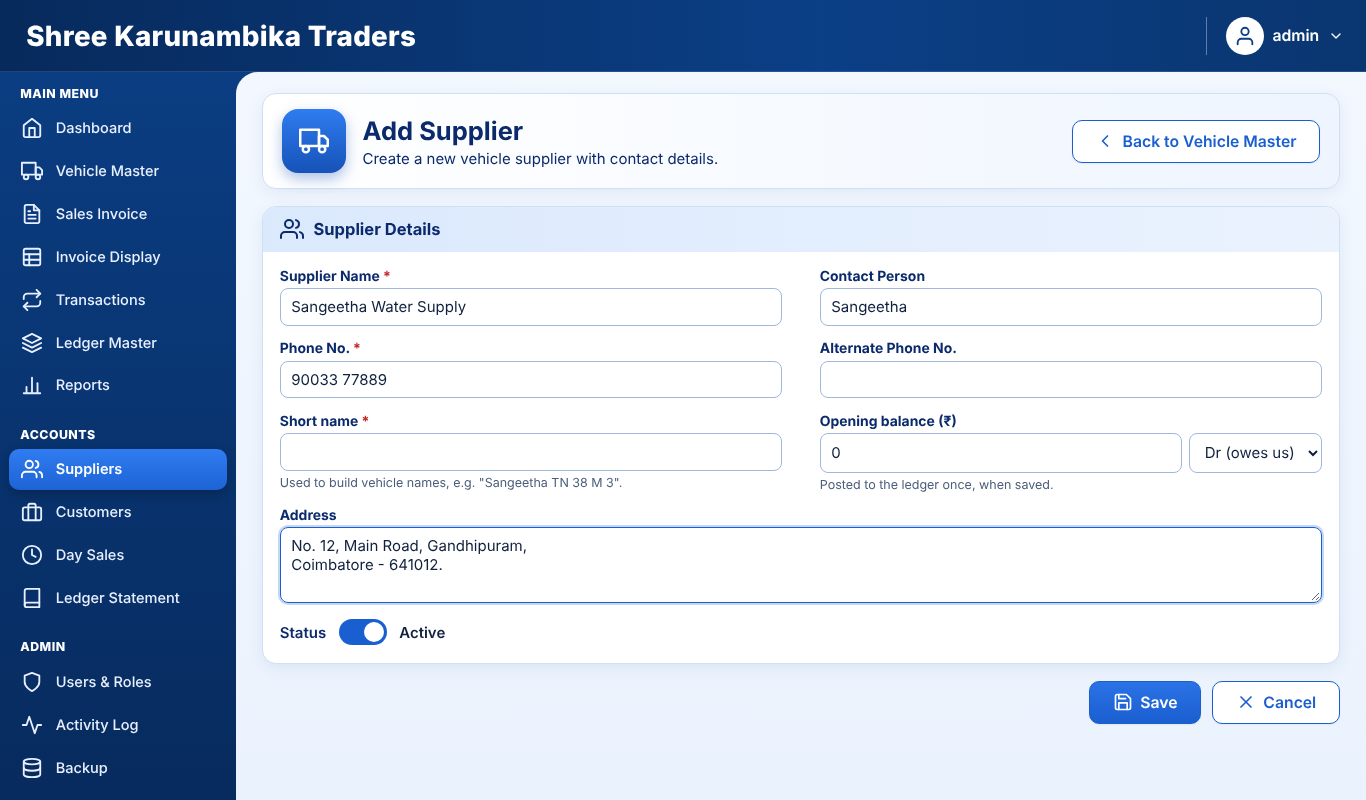
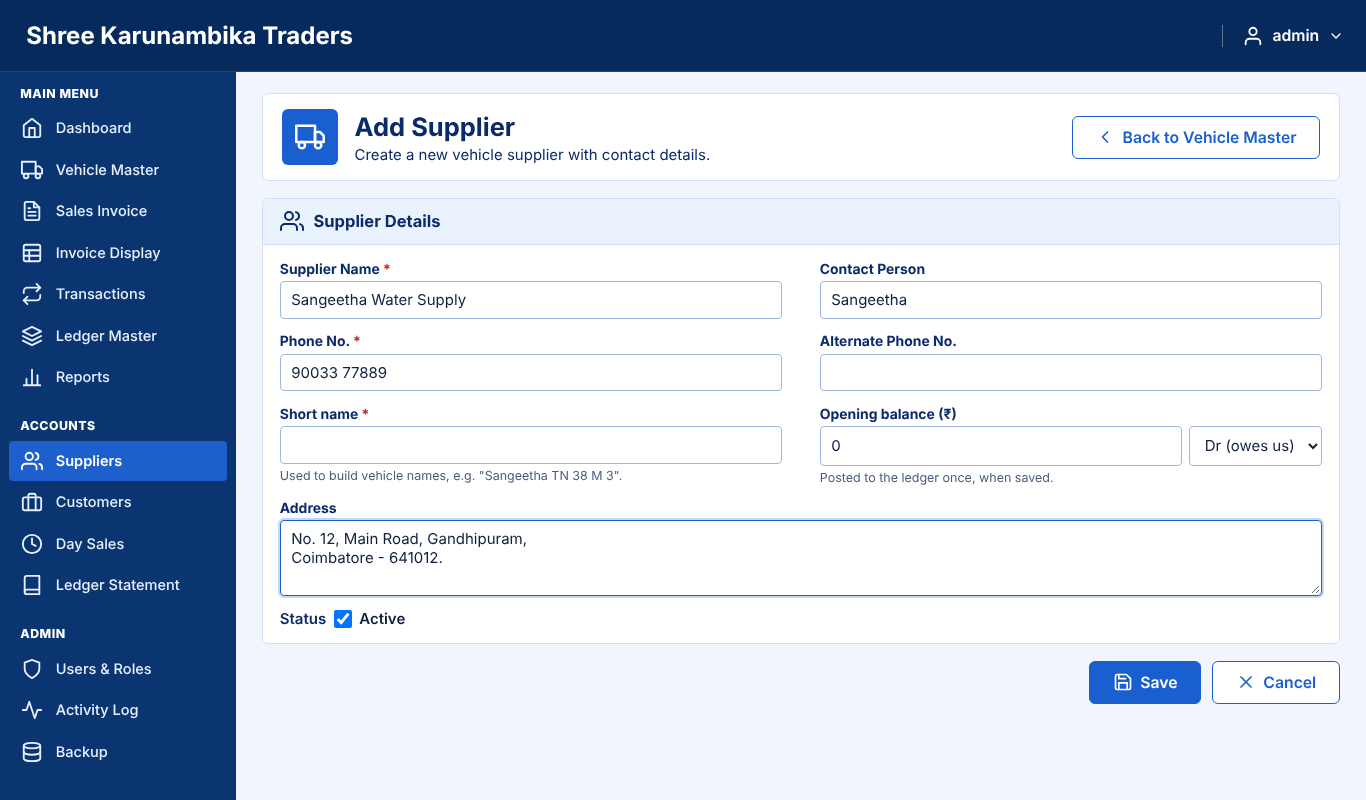
Plain design pass: remove decorative styling and filler copy
- No gradients anywhere (frame, buttons, tabs, tiles, login); pink/purple tile removed
- No pill shapes: badges, radio choices and the status toggle are plain
- No shadows or animations; corners 4 to 6 px; one blue for actions
- Concrete page subtitles instead of generic ones
- No em/en dashes, check-mark glyphs or emoji in the UI or docs
- Screenshots in docs/images retaken

Claude-Session: https://claude.ai/code/session_01GC6BTDpwSqLWP6n9AXb7Z6

diff --git a/src/wwwroot/app.css b/src/wwwroot/app.css
@@ -16,8 +16,8 @@
     --danger: #c62828;
     --ok: #1e7a3e;
     --ok-bg: #dff5e6;
-    --radius: 14px;
-    --shadow: 0 4px 16px rgba(18, 61, 128, 0.08);
+    --radius: 6px;
+    --shadow: none;
 }
 
 html, body {
@@ -39,14 +39,14 @@ code { font-size: 0.85em; word-break: break-all; }
 /* ---------- Page header (icon tile + title + description + actions) ---------- */
 .page-head {
     display: flex; align-items: center; gap: 1.1rem; flex-wrap: wrap;
-    background: linear-gradient(90deg, #ffffff 0%, #eef5ff 100%);
+    background: var(--paper);
     border: 1px solid var(--line); border-radius: var(--radius); padding: 1rem 1.25rem; margin-bottom: 1.1rem;
     box-shadow: var(--shadow);
 }
 .page-head-icon {
-    width: 64px; height: 64px; border-radius: 16px; flex-shrink: 0;
+    width: 56px; height: 56px; border-radius: 6px; flex-shrink: 0;
     display: flex; align-items: center; justify-content: center;
-    color: #ffffff; background: linear-gradient(180deg, #2f7cf0, #1652b8); box-shadow: 0 6px 14px rgba(22, 82, 184, 0.35);
+    color: #ffffff; background: var(--blue);
 }
 .page-head-text { flex: 1 1 260px; }
 .page-head-text p { margin: 0.2rem 0 0; color: var(--navy); font-size: 1rem; }
@@ -58,21 +58,20 @@ code { font-size: 0.85em; word-break: break-all; }
 /* ---------- Buttons ---------- */
 .btn {
     display: inline-flex; align-items: center; justify-content: center; gap: 0.5rem;
-    padding: 0.55rem 1.1rem; border: 1.5px solid var(--blue); border-radius: 10px;
+    padding: 0.55rem 1.1rem; border: 1px solid var(--blue); border-radius: 6px;
     background: var(--paper); color: var(--blue); font: inherit; font-weight: 600; cursor: pointer; text-decoration: none;
-    box-shadow: 0 1px 2px rgba(0, 0, 0, 0.05);
 }
 .btn:hover { background: var(--blue-50); }
-.btn-primary { background: linear-gradient(180deg, #2a72e6, var(--blue)); border-color: var(--blue); color: #ffffff; }
+.btn-primary { background: var(--blue); border-color: var(--blue); color: #ffffff; }
 .btn-primary:hover { background: var(--blue-600); }
 .btn-danger { border-color: var(--danger); color: var(--danger); }
 .btn-danger:hover { background: #fdecec; }
 .btn:disabled { opacity: 0.5; cursor: not-allowed; }
-.btn-small { padding: 0.25rem 0.65rem; font-size: 0.85rem; border-radius: 8px; }
+.btn-small { padding: 0.25rem 0.65rem; font-size: 0.85rem; }
 .btn-lg { padding: 0.7rem 1.5rem; font-size: 1.05rem; }
 .btn + .btn { margin-left: 0; }
 .link-button { background: none; border: none; padding: 0; font: inherit; text-decoration: underline; cursor: pointer; color: var(--blue); }
-.icon-btn { background: none; border: none; padding: 0.3rem; border-radius: 8px; cursor: pointer; color: var(--blue); display: inline-flex; }
+.icon-btn { background: none; border: none; padding: 0.3rem; border-radius: 4px; cursor: pointer; color: var(--blue); display: inline-flex; }
 .icon-btn:hover { background: var(--blue-50); }
 .icon-btn.danger { color: var(--danger); }
 .icon-btn.danger:hover { background: #fdecec; }
@@ -87,7 +86,7 @@ code { font-size: 0.85em; word-break: break-all; }
 .section { background: var(--paper); border: 1px solid var(--line); border-radius: var(--radius); margin-bottom: 1.1rem; box-shadow: var(--shadow); overflow: hidden; }
 .section-title {
     display: flex; align-items: center; gap: 0.65rem; margin: 0; padding: 0.7rem 1.1rem;
-    background: linear-gradient(90deg, #dbe9fd 0%, #eaf2fe 100%); color: var(--navy); font-size: 1.1rem; font-weight: 700;
+    background: var(--blue-50); border-bottom: 1px solid var(--line); color: var(--navy); font-size: 1.1rem; font-weight: 700;
 }
 .section-title .grow { flex: 1; }
 .section-body { padding: 1rem 1.1rem; }
@@ -98,7 +97,7 @@ code { font-size: 0.85em; word-break: break-all; }
 .field small { color: var(--muted); }
 .req { color: var(--danger); }
 input, select, textarea {
-    font: inherit; padding: 0.55rem 0.7rem; border: 1px solid #9fb8dc; border-radius: 8px;
+    font: inherit; padding: 0.55rem 0.7rem; border: 1px solid #9fb8dc; border-radius: 4px;
     background: var(--paper); color: var(--ink);
 }
 input:focus, select:focus, textarea:focus { border-color: var(--blue); outline: 2px solid rgba(26, 95, 208, 0.25); outline-offset: 0; }
@@ -109,14 +108,12 @@ input[readonly], select:disabled { background: #eef3fa; color: var(--ink); }
 .input-icon { position: relative; display: flex; align-items: center; }
 .input-icon .icon { position: absolute; left: 0.7rem; color: var(--muted); pointer-events: none; }
 .input-icon input, .input-icon select { padding-left: 2.4rem; width: 100%; }
-.radio-pills { display: flex; gap: 0.75rem; flex-wrap: wrap; }
-.radio-pill { display: inline-flex; align-items: center; gap: 0.5rem; padding: 0.45rem 1rem; border-radius: 999px; background: #f0f3f8; cursor: pointer; font-weight: 600; }
-.radio-pill.on { background: var(--ok-bg); color: var(--ok); }
-.switch { display: inline-flex; align-items: center; gap: 0.6rem; cursor: pointer; font-weight: 600; }
-.switch input { appearance: none; width: 48px; height: 26px; border-radius: 999px; background: #b9c6d8; position: relative; border: none; padding: 0; cursor: pointer; }
-.switch input::after { content: ""; position: absolute; top: 3px; left: 3px; width: 20px; height: 20px; border-radius: 50%; background: #ffffff; transition: left 0.15s; }
-.switch input:checked { background: var(--blue); }
-.switch input:checked::after { left: 25px; }
+.radio-pills { display: flex; gap: 1.5rem; flex-wrap: wrap; padding-top: 0.4rem; }
+.radio-pill { display: inline-flex; align-items: center; gap: 0.4rem; cursor: pointer; font-weight: 600; }
+.radio-pill input { width: 18px; height: 18px; margin: 0; }
+
+.switch { display: inline-flex; align-items: center; gap: 0.5rem; cursor: pointer; font-weight: 600; }
+.switch input { width: 18px; height: 18px; margin: 0; }
 .invalid { outline: 1px solid var(--danger); }
 .validation-message { color: var(--danger); font-size: 0.88rem; }
 
@@ -127,7 +124,7 @@ input[readonly], select:disabled { background: #eef3fa; color: var(--ink); }
 .search-box { flex: 1 1 320px; max-width: 520px; }
 
 /* ---------- Tables ---------- */
-.table-wrap { background: var(--paper); border: 1px solid var(--line); border-radius: var(--radius); overflow: auto; box-shadow: var(--shadow); margin-bottom: 1.1rem; }
+.table-wrap { background: var(--paper); border: 1px solid var(--line); border-radius: var(--radius); overflow: auto; margin-bottom: 1.1rem; }
 table.data { border-collapse: collapse; width: 100%; }
 table.data th, table.data td { padding: 0.62rem 0.8rem; text-align: left; vertical-align: middle; border-bottom: 1px solid #e1ebf8; }
 table.data thead th { background: var(--navy-700); color: #ffffff; font-weight: 600; font-size: 0.93rem; white-space: nowrap; }
@@ -141,11 +138,11 @@ table.plain th { background: var(--blue-50) !important; color: var(--navy) !impo
 .card > table.data, .section-body > table.data { border: 1px solid #e1ebf8; }
 
 /* ---------- Alerts, badges ---------- */
-.alert { padding: 0.65rem 0.95rem; margin-bottom: 1rem; border: 1px solid; border-radius: 10px; }
+.alert { padding: 0.65rem 0.95rem; margin-bottom: 1rem; border: 1px solid; border-radius: 4px; }
 .alert-error { border-color: var(--danger); color: #a51d1d; background: #fdecec; }
 .alert-ok { border-color: var(--ok); color: var(--ok); background: #eaf7ee; }
 .alert-warn { border-color: #b98900; color: #5c4400; background: #fff6d6; }
-.badge { display: inline-block; padding: 0.15rem 0.7rem; border-radius: 999px; font-size: 0.85rem; font-weight: 700; background: var(--ok-bg); color: var(--ok); }
+.badge { display: inline-block; padding: 0.1rem 0.45rem; border-radius: 3px; font-size: 0.82rem; font-weight: 700; background: var(--ok-bg); color: var(--ok); }
 .badge-off { background: #edf0f4; color: var(--muted); }
 .badge-bad { background: #fdecec; color: var(--danger); }
 .badge-info { background: var(--blue-50); color: var(--blue-600); }
@@ -155,38 +152,34 @@ table.plain th { background: var(--blue-50) !important; color: var(--navy) !impo
 /* ---------- Figure tiles (dashboard, invoice display) ---------- */
 .cards { display: grid; grid-template-columns: repeat(auto-fill, minmax(220px, 1fr)); gap: 0.9rem; margin-bottom: 1.1rem; }
 .stat {
-    display: flex; align-items: center; gap: 0.9rem; padding: 1rem 1.1rem; border-radius: var(--radius);
-    border: 1px solid var(--line); background: linear-gradient(180deg, #ffffff, #e8f1fe); box-shadow: var(--shadow);
+    display: flex; align-items: center; gap: 0.9rem; padding: 0.9rem 1rem; border-radius: var(--radius);
+    border: 1px solid var(--line); background: var(--paper);
 }
-.stat-icon { width: 54px; height: 54px; border-radius: 12px; display: flex; align-items: center; justify-content: center; background: #ffffff; color: var(--blue); flex-shrink: 0; box-shadow: 0 2px 6px rgba(0, 0, 0, 0.06); }
+.stat-icon { width: 46px; height: 46px; border-radius: 6px; display: flex; align-items: center; justify-content: center; background: var(--blue-50); color: var(--blue); flex-shrink: 0; }
 .stat-label { font-size: 0.92rem; font-weight: 700; color: var(--navy); }
 .stat-value { font-size: 1.45rem; font-weight: 800; margin-top: 0.15rem; color: var(--navy); font-variant-numeric: tabular-nums; }
-.stat.green { background: linear-gradient(180deg, #ffffff, #e2f5e9); border-color: #bfe5cb; }
-.stat.green .stat-icon { color: var(--ok); }
-.stat.pink { background: linear-gradient(180deg, #ffffff, #fbe7f3); border-color: #f1c6df; }
-.stat.pink .stat-icon { color: #b0175b; }
 .stat.small .stat-value { font-size: 1.15rem; }
 .stat.small .stat-icon { width: 42px; height: 42px; }
 
 /* ---------- Tabs (Transactions) ---------- */
 .tabs { display: flex; gap: 0.25rem; margin-bottom: -1px; position: relative; z-index: 1; }
 .tab {
-    display: inline-flex; align-items: center; gap: 0.6rem; padding: 0.75rem 1.4rem; border-radius: 12px 12px 0 0;
+    display: inline-flex; align-items: center; gap: 0.6rem; padding: 0.7rem 1.3rem; border-radius: 6px 6px 0 0;
     border: 1px solid var(--line); border-bottom: none; background: #e6effc; color: var(--navy);
     font-weight: 700; font-size: 1.05rem; text-decoration: none; cursor: pointer;
 }
 .tab small { font-weight: 500; }
-.tab.active { background: linear-gradient(180deg, #2a72e6, var(--blue)); color: #ffffff; border-color: var(--blue); }
+.tab.active { background: var(--blue); color: #ffffff; border-color: var(--blue); }
 
 /* ---------- Highlighted amount (Sales Invoice) ---------- */
-.amount-box { border-radius: 12px; background: var(--blue-50); border: 1px solid var(--line); padding: 0.6rem 0.8rem; }
+.amount-box { border-radius: 6px; background: var(--blue-50); border: 1px solid var(--line); padding: 0.6rem 0.8rem; }
 .amount-box .label { display: flex; align-items: center; gap: 0.4rem; font-weight: 700; color: var(--navy); margin-bottom: 0.35rem; }
-.amount-box .value { background: #ffe14d; color: #10213f; font-size: 1.9rem; font-weight: 800; text-align: center; border-radius: 8px; padding: 0.2rem 0.5rem; font-variant-numeric: tabular-nums; }
-.number-box { background: var(--blue-50); border: 1px solid var(--line); border-radius: 12px; padding: 0.5rem 0.8rem; min-width: 180px; }
+.amount-box .value { background: #ffe14d; color: #10213f; font-size: 1.9rem; font-weight: 800; text-align: center; border-radius: 4px; padding: 0.2rem 0.5rem; font-variant-numeric: tabular-nums; }
+.number-box { background: var(--blue-50); border: 1px solid var(--line); border-radius: 6px; padding: 0.5rem 0.8rem; min-width: 180px; }
 .number-box label { font-weight: 700; color: var(--navy); font-size: 0.92rem; display: block; margin-bottom: 0.25rem; }
-.number-box .value { background: #ffffff; border: 1px solid #9fb8dc; border-radius: 8px; padding: 0.35rem 0.7rem; font-weight: 800; font-size: 1.15rem; color: var(--navy); }
+.number-box .value { background: #ffffff; border: 1px solid #9fb8dc; border-radius: 4px; padding: 0.35rem 0.7rem; font-weight: 800; font-size: 1.15rem; color: var(--navy); }
 
-.blazor-error-boundary { background: var(--danger); padding: 1rem; color: white; border-radius: 10px; }
+.blazor-error-boundary { background: var(--danger); padding: 1rem; color: white; border-radius: 4px; }
 .blazor-error-boundary::after { content: "An error has occurred."; }
 
 /* Smaller screens: forms stack. */
@@ -197,11 +190,11 @@ table.plain th { background: var(--blue-50) !important; color: var(--navy) !impo
 .quick { display: grid; grid-template-columns: repeat(auto-fill, minmax(140px, 1fr)); gap: 0.9rem; }
 .quick-tile {
     display: flex; flex-direction: column; align-items: center; justify-content: center; gap: 0.6rem; min-height: 120px;
-    border: 1.5px solid var(--line); border-radius: 14px; background: linear-gradient(180deg, #ffffff, #e8f1fe);
+    border: 1px solid var(--line); border-radius: 6px; background: var(--paper);
     color: var(--navy); font-weight: 800; font-size: 1.05rem; text-decoration: none; text-align: center; padding: 0.6rem;
 }
 .quick-tile .icon { color: var(--blue); }
-.quick-tile:hover { border-color: var(--blue); box-shadow: 0 4px 14px rgba(26, 95, 208, 0.2); }
+.quick-tile:hover { border-color: var(--blue); background: var(--blue-50); }
 @media (max-width: 1100px) { .dash-grid { grid-template-columns: 1fr; } }
 
 /* ---------- Sales Invoice ---------- */
@@ -212,7 +205,7 @@ table.plain th { background: var(--blue-50) !important; color: var(--navy) !impo
 .button-grid { display: grid; grid-template-columns: repeat(4, 1fr); gap: 0.6rem; }
 .disabled-link { opacity: 0.5; pointer-events: none; }
 .total-card .label { font-weight: 800; color: var(--navy); font-size: 1.15rem; text-align: center; }
-.total-card .total-value { font-size: 2.2rem; font-weight: 800; text-align: center; color: var(--navy); background: #ffffff; border: 1px solid #9fb8dc; border-radius: 10px; margin: 0.5rem 0 0.75rem; padding: 0.3rem; font-variant-numeric: tabular-nums; }
+.total-card .total-value { font-size: 2.2rem; font-weight: 800; text-align: center; color: var(--navy); background: #ffffff; border: 1px solid #9fb8dc; border-radius: 4px; margin: 0.5rem 0 0.75rem; padding: 0.3rem; font-variant-numeric: tabular-nums; }
 @media (max-width: 1200px) { .inv-row-2 { grid-template-columns: repeat(3, 1fr); } .inv-bottom { grid-template-columns: 1fr; } .button-grid { grid-template-columns: repeat(3, 1fr); } }
 
 /* ---------- Invoice Display ---------- */
@@ -224,10 +217,10 @@ table.plain th { background: var(--blue-50) !important; color: var(--navy) !impo
 .filter-bar .field input { width: 100%; box-sizing: border-box; }
 .summary-grid { display: grid; grid-template-columns: 1.4fr 1fr; gap: 1.1rem; align-items: start; }
 .balance-list { display: flex; flex-direction: column; gap: 0.5rem; }
-.balance-row { display: flex; align-items: center; gap: 0.6rem; background: var(--paper); border: 1px solid var(--line); border-radius: 10px; padding: 0.65rem 0.9rem; color: var(--navy); font-weight: 700; box-shadow: var(--shadow); }
+.balance-row { display: flex; align-items: center; gap: 0.6rem; background: var(--paper); border: 1px solid var(--line); border-radius: 6px; padding: 0.65rem 0.9rem; color: var(--navy); font-weight: 700; }
 .balance-row span { flex: 1; }
 .balance-row strong { font-size: 1.15rem; font-variant-numeric: tabular-nums; }
-.balance-row.closing { background: linear-gradient(90deg, #0b3a75, #1652b8); color: #ffffff; border-color: #0b3a75; }
+.balance-row.closing { background: var(--navy-700); color: #ffffff; border-color: var(--navy-700); }
 @media (max-width: 1100px) { .summary-grid { grid-template-columns: 1fr; } }
 
 /* ---------- Transactions (vouchers) ---------- */
@@ -239,8 +232,8 @@ table.plain th { background: var(--blue-50) !important; color: var(--navy) !impo
 .party-pick { display: flex; gap: 1rem; }
 .party-pick .field { margin: 0; flex: 1; }
 .party-pick .field label { font-size: 0.8rem; color: var(--muted); }
-.balance-strip { display: flex; gap: 1.5rem; flex-wrap: wrap; margin: 1rem 0; padding: 0.6rem 0.9rem; border-radius: 10px; background: var(--blue-50); color: var(--navy); font-weight: 600; }
-.cancel-box { display: flex; gap: 0.75rem; align-items: end; flex-wrap: wrap; margin-top: 1rem; padding: 0.8rem; border: 1px solid #f1c0c0; background: #fff6f6; border-radius: 10px; }
+.balance-strip { display: flex; gap: 1.5rem; flex-wrap: wrap; margin: 1rem 0; padding: 0.6rem 0.9rem; border-radius: 4px; background: var(--blue-50); color: var(--navy); font-weight: 600; }
+.cancel-box { display: flex; gap: 0.75rem; align-items: end; flex-wrap: wrap; margin-top: 1rem; padding: 0.8rem; border: 1px solid #f1c0c0; background: #fff6f6; border-radius: 4px; }
 .cancel-box label { font-weight: 700; color: var(--danger); width: 100%; }
 .cancel-box input { flex: 1 1 260px; }
 .voucher-buttons { display: grid; grid-template-columns: repeat(8, minmax(0, 1fr)); gap: 0.6rem; margin-top: 1.4rem; padding-top: 1rem; border-top: 1px solid var(--line); }

diff --git a/src/Components/Layout/MainLayout.razor.css b/src/Components/Layout/MainLayout.razor.css
@@ -4,16 +4,16 @@
     grid-template-rows: 72px 1fr;
     grid-template-areas: "top top" "side main";
     min-height: 100vh;
-    background: linear-gradient(180deg, #0b3f86 0%, #072a5c 100%);
+    background: #0a3570;
 }
 
 .topbar {
     grid-area: top; display: flex; align-items: center; justify-content: space-between;
     padding: 0 1.5rem 0 1.75rem;
-    background: linear-gradient(90deg, #072a5c 0%, #0b3f86 60%, #0a3670 100%);
+    background: #072a5c;
     border-bottom: 1px solid rgba(255, 255, 255, 0.12);
 }
-.brand { color: #ffffff; font-size: 1.85rem; font-weight: 800; text-decoration: none; letter-spacing: 0.01em; }
+.brand { color: #ffffff; font-size: 1.6rem; font-weight: 700; text-decoration: none; }
 
 .user-menu { position: relative; border-left: 1px solid rgba(255, 255, 255, 0.35); padding-left: 1.25rem; }
 .user-menu summary {
@@ -21,14 +21,14 @@
     color: #ffffff; font-weight: 600; font-size: 1.05rem;
 }
 .user-menu summary::-webkit-details-marker { display: none; }
-.avatar { display: inline-flex; width: 38px; height: 38px; border-radius: 50%; background: #ffffff; color: #0b3f86; align-items: center; justify-content: center; }
+.avatar { display: inline-flex; color: #ffffff; align-items: center; }
 .user-menu-panel {
     position: absolute; right: 0; top: calc(100% + 10px); min-width: 210px; z-index: 50;
-    background: #ffffff; border-radius: 10px; box-shadow: 0 10px 30px rgba(0, 0, 0, 0.25); padding: 0.5rem;
+    background: #ffffff; border: 1px solid var(--line); border-radius: 4px; padding: 0.5rem;
 }
 .user-menu-role { padding: 0.4rem 0.6rem; color: var(--muted); font-size: 0.85rem; border-bottom: 1px solid var(--line); margin-bottom: 0.25rem; }
 .user-menu-panel a, .user-menu-panel button {
-    display: flex; align-items: center; gap: 0.5rem; width: 100%; padding: 0.5rem 0.6rem; border-radius: 6px;
+    display: flex; align-items: center; gap: 0.5rem; width: 100%; padding: 0.5rem 0.6rem; border-radius: 4px;
     color: var(--ink); text-decoration: none; background: none; border: none; font: inherit; cursor: pointer; text-align: left;
 }
 .user-menu-panel a:hover, .user-menu-panel button:hover { background: var(--blue-50); }
@@ -37,8 +37,7 @@
 
 .content {
     grid-area: main; padding: 1.4rem 1.75rem 2.5rem;
-    background: linear-gradient(180deg, #f3f8ff 0%, #eaf2fd 100%);
-    border-top-left-radius: 22px; min-width: 0;
+    background: #f2f6fc; min-width: 0;
 }
 
 #blazor-error-ui {

diff --git a/src/Components/Layout/AccountLayout.razor.css b/src/Components/Layout/AccountLayout.razor.css
@@ -1,9 +1,10 @@
 .account-shell {
     min-height: 100vh; display: flex; align-items: center; justify-content: center; padding: 1rem;
-    background: radial-gradient(circle at 20% 20%, #1d63d6 0%, #0b3f86 40%, #072a5c 100%);
+    background: #0a3570;
 }
-.account-card { width: 380px; max-width: 100%; background: #ffffff; border-radius: 18px; padding: 2rem; box-shadow: 0 20px 50px rgba(0, 0, 0, 0.35); }
+.account-card { width: 380px; max-width: 100%; background: #ffffff; border-radius: 6px; padding: 2rem; }
 .account-brand { font-weight: 800; font-size: 1.35rem; color: var(--navy); }
 .account-subtitle { color: var(--muted); margin-bottom: 1.5rem; }
 .account-card ::deep input { width: 100%; box-sizing: border-box; }
 .account-card ::deep .btn { width: 100%; margin-top: 0.5rem; }
+.account-card ::deep h1 { margin-bottom: 1rem; }

diff --git a/src/Components/SalesBarChart.razor.css b/src/Components/SalesBarChart.razor.css
@@ -13,7 +13,7 @@
 .bar-value { font-size: 0.78rem; color: var(--navy); font-weight: 700; margin-bottom: 2px; font-variant-numeric: tabular-nums; }
 .tip {
     display: none; position: absolute; bottom: 100%; left: 50%; transform: translateX(-50%);
-    background: var(--navy); color: #ffffff; padding: 0.3rem 0.55rem; font-size: 0.8rem; white-space: nowrap; z-index: 3; border-radius: 6px;
+    background: var(--navy); color: #ffffff; padding: 0.3rem 0.55rem; font-size: 0.8rem; white-space: nowrap; z-index: 3; border-radius: 3px;
 }
 .bar-slot:hover .tip, .bar-slot:focus-visible .tip { display: block; }
 .bar-slot:hover .bar-value, .bar-slot:focus-visible .bar-value { visibility: hidden; }

diff --git a/src/Components/Layout/NavMenu.razor.css b/src/Components/Layout/NavMenu.razor.css
@@ -6,11 +6,8 @@
 }
 ::deep .nav-link {
     display: flex; align-items: center; gap: 0.85rem;
-    padding: 0.62rem 0.8rem; margin-bottom: 0.15rem; border-radius: 10px;
+    padding: 0.6rem 0.8rem; margin-bottom: 0.1rem; border-radius: 4px;
     color: #e8f0ff; text-decoration: none; font-weight: 500; font-size: 0.97rem;
 }
 ::deep a.nav-link:hover { background: rgba(255, 255, 255, 0.10); color: #ffffff; }
-::deep a.nav-link.active {
-    background: linear-gradient(180deg, #2f7cf0, #1d63d6);
-    color: #ffffff; font-weight: 600; box-shadow: 0 4px 12px rgba(0, 0, 0, 0.25);
-}
+::deep a.nav-link.active { background: #1d5fcc; color: #ffffff; font-weight: 600; }

diff --git a/docs/user-guide.md b/docs/user-guide.md
@@ -9,11 +9,11 @@ The business day runs **6:00 PM to 6:00 PM**. Anything entered from 6 PM belongs
 ## Who can do what
 | | Admin | Dispatch Operator, Billing Clerk, Accountant |
 |---|---|---|
-| Dashboard, Vehicle Master, Suppliers, Customers | ✓ | ✓ |
-| Sales Invoice, Invoice Display, cancel invoices | ✓ | ✓ |
-| Transactions (Receipt and Payment), Ledger Master | ✓ | ✓ |
-| Day Sales and day closing, Ledger Statement, Reports | ✓ | ✓ |
-| **Users & Roles, Activity Log, Backup** | ✓ | not shown at all |
+| Dashboard, Vehicle Master, Suppliers, Customers | Yes | Yes |
+| Sales Invoice, Invoice Display, cancel invoices | Yes | Yes |
+| Transactions (Receipt and Payment), Ledger Master | Yes | Yes |
+| Day Sales and day closing, Ledger Statement, Reports | Yes | Yes |
+| **Users & Roles, Activity Log, Backup** | Yes | No (not shown anywhere) |
 
 ## Dashboard
 This month's sales, today's sales/receipts/payments, outstanding, cash, a 6-month chart
@@ -26,7 +26,7 @@ This month's sales, today's sales/receipts/payments, outstanding, cash, a 6-mont
   the bin deletes (only a vehicle with no transactions; otherwise set it Inactive).
 - **Add Vehicle**: Vehicle No., Supplier, Trip Cost, Capacity, Status; under *Billing and Driver* the Rate
   (per trip or per kL) that invoices use. The vehicle code (A1, A2 ...) is proposed and never reused.
-- **Add Supplier**: name, contact, phone, address, status switch. An opening balance can only be given when adding.
+- **Add Supplier**: name, contact, phone, address, an Active tick box. An opening balance can only be given when adding.
 - **Customers**: direct billing parties (e.g. Meena Constructions).
 
 ![Vehicle Master](images/vehicle-master.png)
@@ -51,7 +51,7 @@ Payment columns, the totals, and Opening Balance, Total Sales and Closing Balanc
 - **Receipt** tab: choose the party, mode and amount. The screen shows the balance before and after and which
   invoices it pays (oldest first). Bank and UPI need a reference number.
 - **Payment** tab: choose the ledger (e.g. Vehicle Maintenance), who is paid, optional vehicle, mode, amount.
-  For a refund choose *Refund / payout to …*. Paying more cash than is in hand needs a tick to confirm.
+  For a refund choose *Refund / payout to supplier* (or customer). Paying more cash than is in hand needs a tick to confirm.
 - **Previous / Next** show saved vouchers. **Delete** cancels the one on screen (a reason is required and a
   reversal is posted). Saved vouchers are never edited: cancel and enter again.
 
@@ -59,7 +59,7 @@ Payment columns, the totals, and Opening Balance, Total Sales and Closing Balanc
 
 ## Ledger Master
 Type a ledger name and **Save**. The pencil renames or deactivates; the bin deletes a ledger that has no entries.
-System ledgers (Cash in Hand, Water Sales …) are listed separately and cannot be changed.
+System ledgers (Cash in Hand, Water Sales and the others) are listed separately and cannot be changed.
 
 ![Ledger Master](images/ledger-master.png)
 

diff --git a/docs/data-conventions.md b/docs/data-conventions.md
@@ -7,7 +7,7 @@ Rules every table and every module follows. The code that applies them is named 
 | Money | `long`, whole **paise** | ₹1,250.50 → `125050` | `Services/Common/Money.cs` |
 | Meter reading / volume | `long`, whole **tenths of a kL** | 28451.2 kL → `284512` | `Services/Common/Volume.cs` |
 | Moment in time | `DateTime` in **UTC** (column ends in `Utc`) | 05/11/2026 06:15 PM IST → `2026-11-05 12:45 UTC` | `Services/Common/IndianTime.cs` |
-| Business date | `DateOnly` (no time) | `2026-11-05` | — |
+| Business date | `DateOnly` (no time) | `2026-11-05` | (none) |
 | Status and type fields | enum stored as its **name** | `"Active"` | `Data/Entities/Enums.cs` |
 
 ## Money
@@ -36,7 +36,7 @@ The spec targets PostgreSQL. SQLite does not have every feature, so:
 |---|---|
 | `numeric(14,2)` money | `long` paise |
 | `numeric(12,1)` readings | `long` tenths |
-| Unique on `lower(name)` | Extra `NormalizedName` column (spaces tidied, upper case) with a unique index. Handles all languages, not just A–Z. |
+| Unique on `lower(name)` | Extra `NormalizedName` column (spaces tidied, upper case) with a unique index. Handles all languages, not just A to Z. |
 | `version` column for edit conflicts | EF Core concurrency token on `Version`. The second editor gets a "changed by someone else" error (NFR-CON-05). |
 | `timestamptz` | UTC `DateTime` plus a converter that marks values as UTC on read |
 | Check constraints | Same: SQLite supports `CHECK` |

diff --git a/docs/architecture.md b/docs/architecture.md
@@ -60,7 +60,7 @@ file small enough to explain.
 | Decision | Why |
 |---|---|
 | Only Admin sees Users, Activity Log, Backup; all other roles do all business work (client decision) | `RolePermissions.AdminOnly`. For non-admins `/admin/*` answers 404 (middleware in `Program.cs`) and unauthorised pages show "Page not found", so there is no visible gateway. |
-| Look taken from the client designs (Designs.pdf, Transactions.pdf) | Navy frame, blue cards, inline SVG icons (`Components/Icon.razor`), `PageHeader` component; no external fonts or scripts, so the strict CSP is unchanged. |
+| Look taken from the client designs (Designs.pdf, Transactions.pdf), kept plain | Solid navy frame, white panels with thin borders, one blue for actions, 4 to 6 px corners. No gradients, pill shapes, shadows, animations, emoji or stock photos. Line icons are inline SVG (`Components/Icon.razor`), so the strict CSP is unchanged. Page subtitles say what the screen does in concrete terms. |
 | Every page interactive (`InteractiveServer` in `App.razor`) | Buttons and forms work everywhere; no per-page render-mode mistakes. Login page will be the exception in Session 6 (cookies need a normal page). |
 | Menu defined as a list (`MenuItems.cs`) | One place to change; tested. Unbuilt modules show greyed out. |
 | Unknown URLs → `/not-found` with status 404 | .NET 8 does not use the router's NotFound block for server-rendered pages. |

diff --git a/docs/progress.md b/docs/progress.md
@@ -59,6 +59,9 @@
 - Done: Windows service hosting; production settings (localhost:5080 only, data in %ProgramData%\WaterBilling); data-protection keys stored with the data (DPAPI on Windows) so logins survive restarts; self-contained win-x64 publish verified; Inno Setup script (service registration with restart-on-failure, locked-down data folder, shortcuts, upgrade and uninstall keeping data); build script that runs tests first; install guide. 311 tests passing.
 - Not possible here: compiling the .iss needs Inno Setup on Windows (run `installer\build-installer.ps1`).
 
+## Module 20: Plain design pass
+- Done: removed every gradient (incl. the pink/purple tile), pill shapes, shadows and the toggle animation; flat colours and small corners; plain radio buttons and checkbox; concrete page subtitles; no em/en dashes, check-mark glyphs or emoji in UI or docs. 360 tests passing.
+
 ## Module 19: Redesign to client designs + role change
 - Done: all screens rebuilt to Designs.pdf / Transactions.pdf (navy frame, blue cards, icons, Add Vehicle and Add Supplier pages, Sales Invoice with amount box, Invoice Display with summary, Transactions with Receipt/Payment tabs and Next/Previous/New/Save/View/Edit/Delete/Exit, Ledger Master). Role rule: only Admin sees Users, Activity Log and Backup (404 for others); every other role does all business work. 360 tests passing.
 

diff --git a/docs/demo-script.md b/docs/demo-script.md
@@ -23,7 +23,7 @@ automatically in round 2 (`test-report.md`).
 
 ## 3. Billing Clerk (3 min)
 1. Sign in as `clerk1`. **Sales Invoice**: vehicle *A1*, Bill To *A customer* → *Meena Constructions*, Trip 2 → **INV-7234 ₹300.00**.
-2. **Transactions → Receipt**: party type *Customer*, *Meena Constructions*, UPI, ₹300 — save without reference → refused; add reference *UTR778899* → RV-2.
+2. **Transactions → Receipt**: party type *Customer*, *Meena Constructions*, UPI, ₹300. Saving without a reference is refused; add reference *UTR778899* → RV-2.
 
 ## 4. Corrections (2 min, as Admin, before the day is closed)
 1. Open **Invoice Display**, click INV-7234. Try to cancel → refused: *receipts are allocated (RV-2)*.

diff --git a/docs/scope-and-backlog.md b/docs/scope-and-backlog.md
@@ -12,7 +12,7 @@
 ## Not built in Version 1.0
 | Item | Why | Status |
 |---|---|---|
-| Meter dispensing (Meters 1–3, fills, meter chain, overrides) | Not confirmed by the client (question 9) | Build the simple version if the client confirms |
+| Meter dispensing (Meters 1, 2 and 3, fills, meter chain, overrides) | Not confirmed by the client (question 9) | Build the simple version if the client confirms |
 | Two-step login, account lockout | CLAUDE.md §3 | Version 1.1 |
 | Vehicle transfer between suppliers | CLAUDE.md §3 | Version 1.1 |
 | Dated rate history | CLAUDE.md §3 (rate is one value per vehicle) | Version 1.1 |
